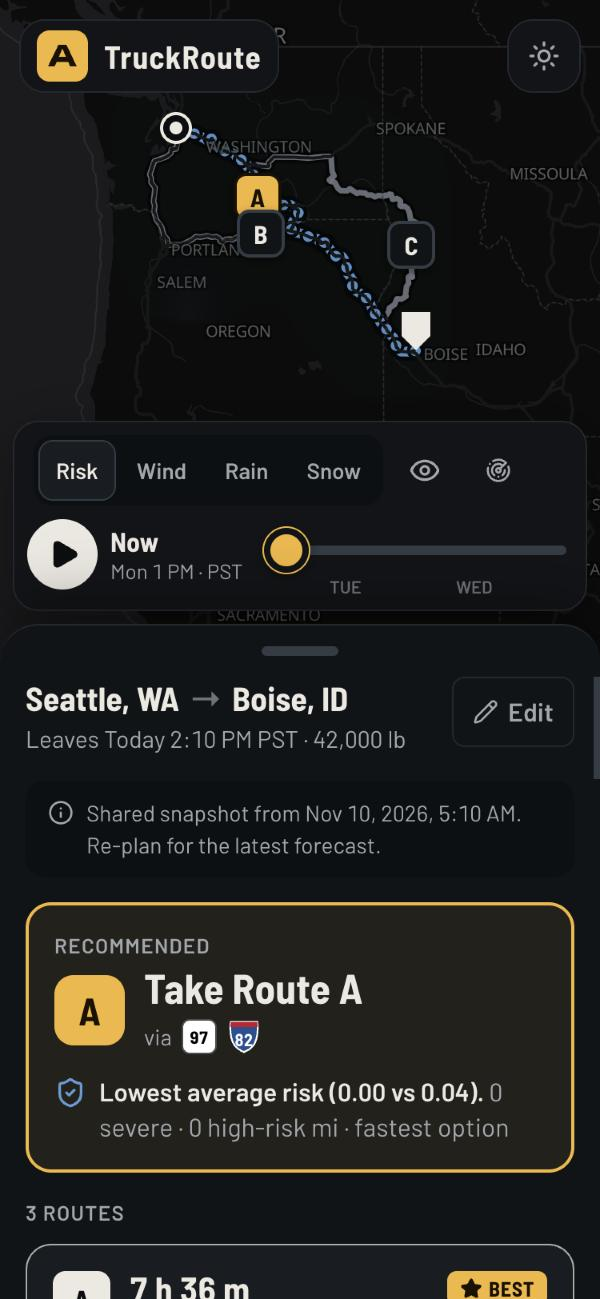
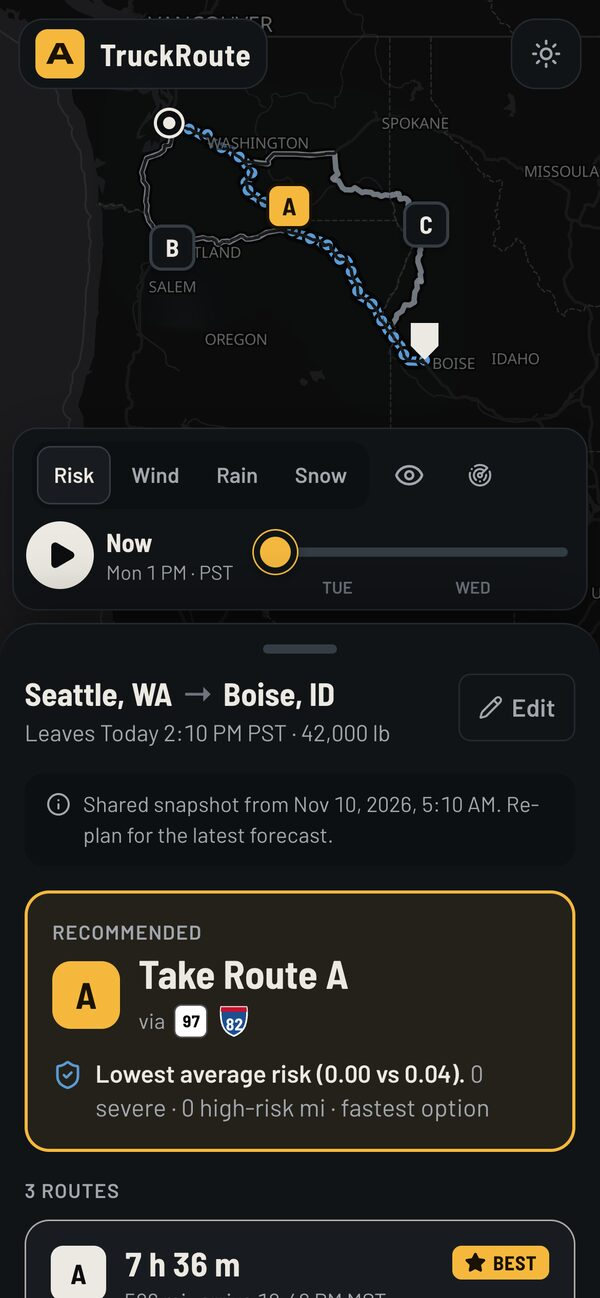
docs: full-size screenshots, measured performance and offline results, live e2e script

diff --git a/README.md b/README.md
@@ -6,9 +6,13 @@ Pick the safest truck route for the weather, the load and the departure time.
 
 TruckRoute gets three truck routes. It samples the forecast every 10, 25 or 50 miles **for the hour the truck will actually reach that point**, and scores each point with the assessment's risk and load rules. It then recommends a route and states the reason. A 0–48 h forecast slider moves a weather heatmap and a truck marker together, so a driver can see where the truck will be and what the weather will be there at the same time.
 
-| Desktop | Checkpoint detail + truck position | Phone |
-|---|---|---|
-| ![Results](docs/screenshots/desktop-results.jpg) | ![Checkpoint](docs/screenshots/desktop-checkpoint.jpg) | ![Mobile](docs/screenshots/mobile-results.jpg) |
+| Recommendation and route options | Severe checkpoint, rain heatmap, truck at that hour |
+|---|---|
+| ![Results](docs/screenshots/desktop-results.jpg) | ![Checkpoint](docs/screenshots/desktop-checkpoint.jpg) |
+| **Light theme** | **Offline: last trip restored with the network cut** |
+| ![Light theme](docs/screenshots/desktop-light.jpg) | ![Offline](docs/screenshots/offline.jpg) |
+
+<p align="center"><img src="docs/screenshots/mobile-results.jpg" width="300" alt="Phone layout with bottom sheet"></p>
 
 ---
 
@@ -144,6 +148,23 @@ cd frontend && npm run lint && npm run typecheck && npm test && npm run build
 ```
 
 Backend tests run against recorded real responses from TomTom, Open-Meteo and NWS (`backend/tests/fixtures`). Upstream calls are mocked with `respx`, and Redis with `fakeredis`.
+
+### Verified against production
+
+`scripts/e2e-live.mjs` (Playwright) runs four checks on the live site:
+1. Plans a trip through the UI.
+2. Sweeps the slider and asserts that scrubbing makes **zero** network requests.
+3. Cuts the network and reloads, then asserts the last trip is restored.
+4. Captures the screenshots above.
+
+Results measured on 2026-11-10:
+
+| Check | Result |
+|---|---|
+| Plan via the UI (Kansas City → Nashville, 555 mi, 3 routes) | ~4.1–4.4 s end to end, mostly TomTom truck routing |
+| Slider sweep 0 → 48 h over 5 s, in a GPU-backed browser | **60 fps** average, p95 frame 18 ms, 0 frames over 33 ms, **0 requests** |
+| Offline reload | Trip, routes, cached basemap and heatmap all restored, with the offline banner shown |
+| Strong weather | Seattle → Boise at 42,000 lb: 0.71 in/hr rain in the Columbia Gorge is scored **Severe** on Route B; Route A is recommended |
 
 ---
 
